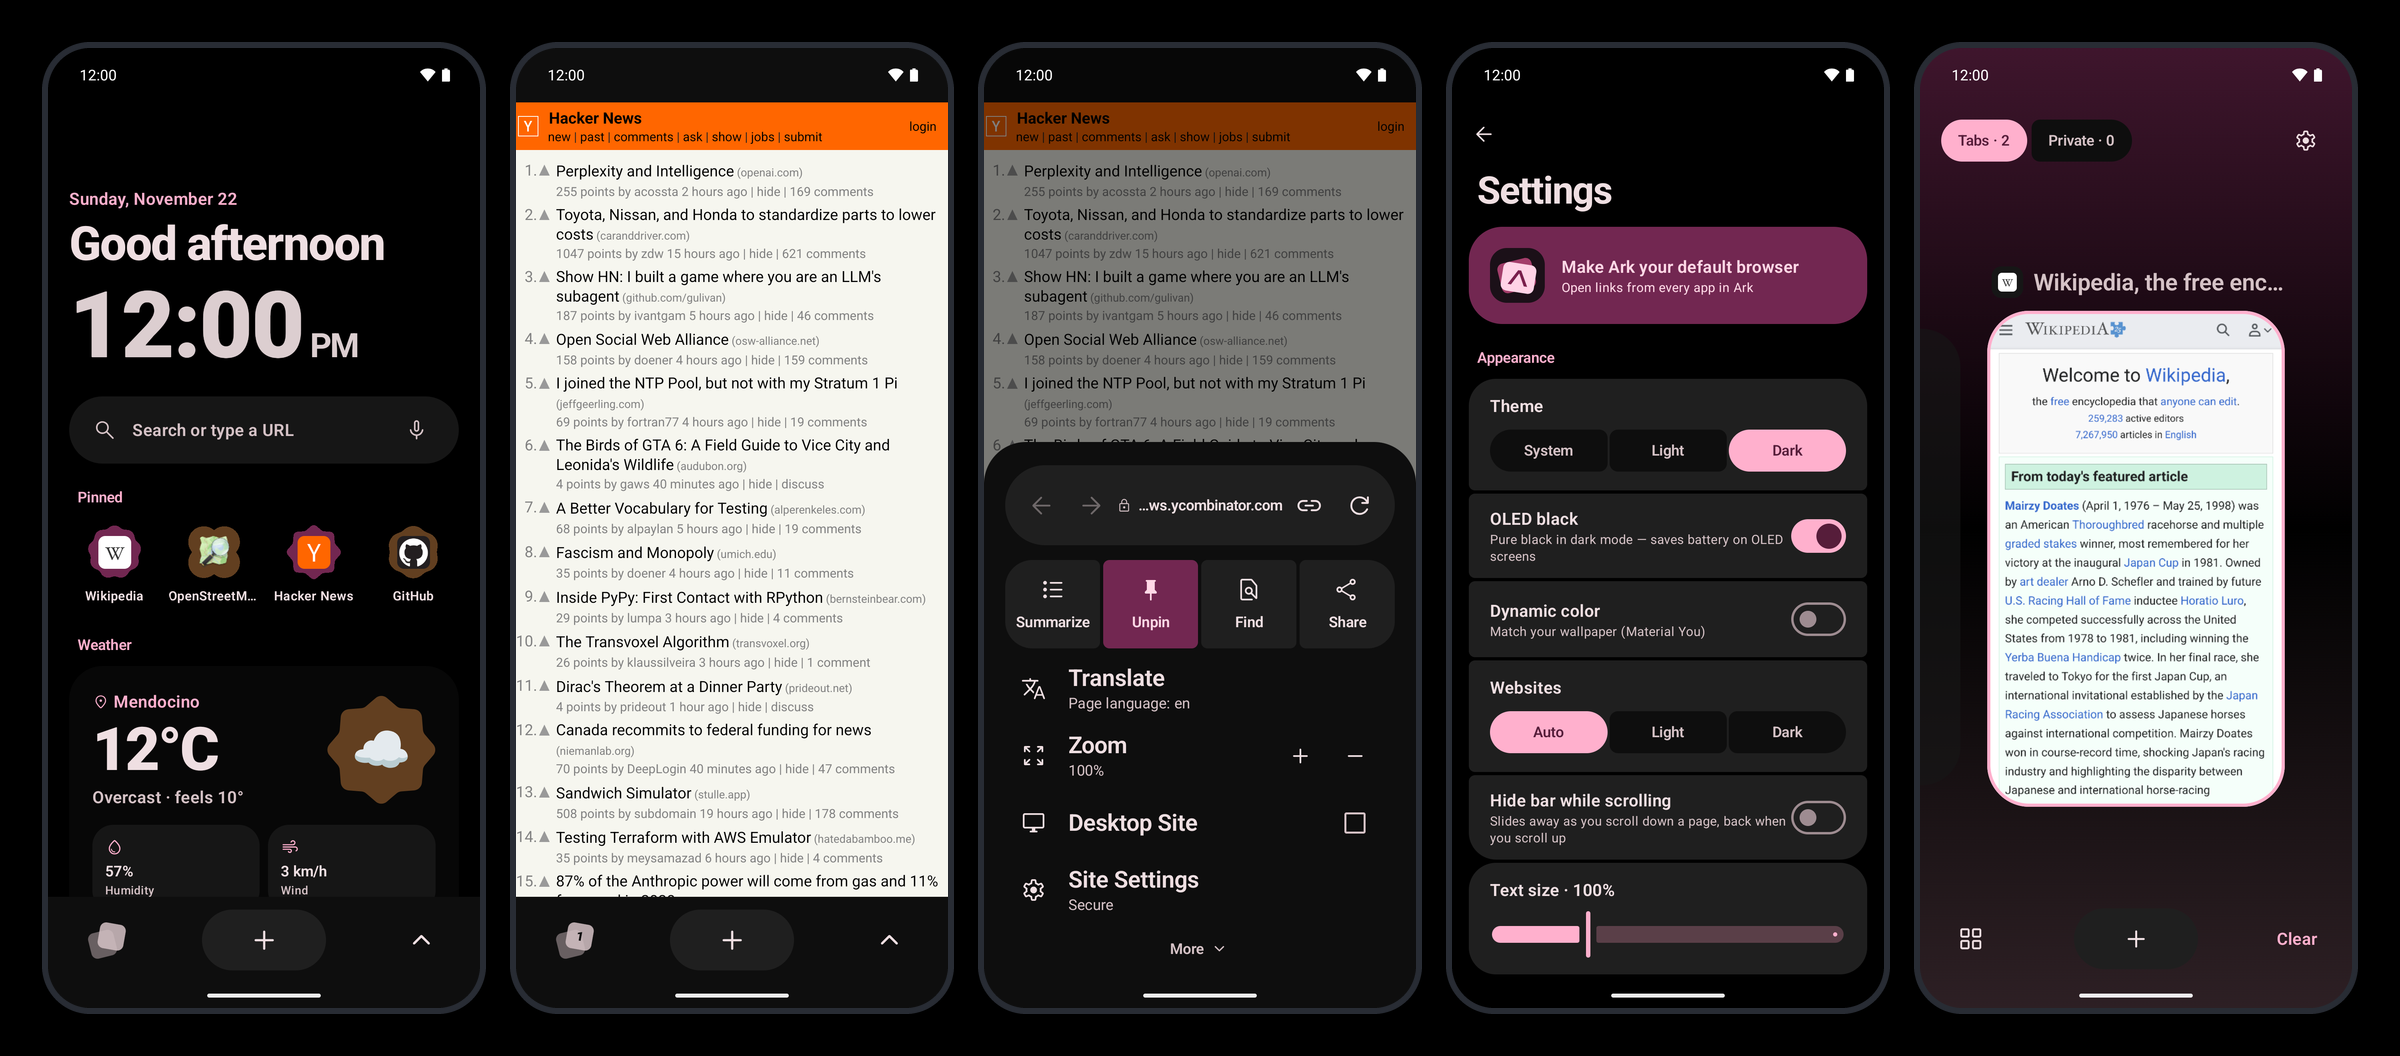
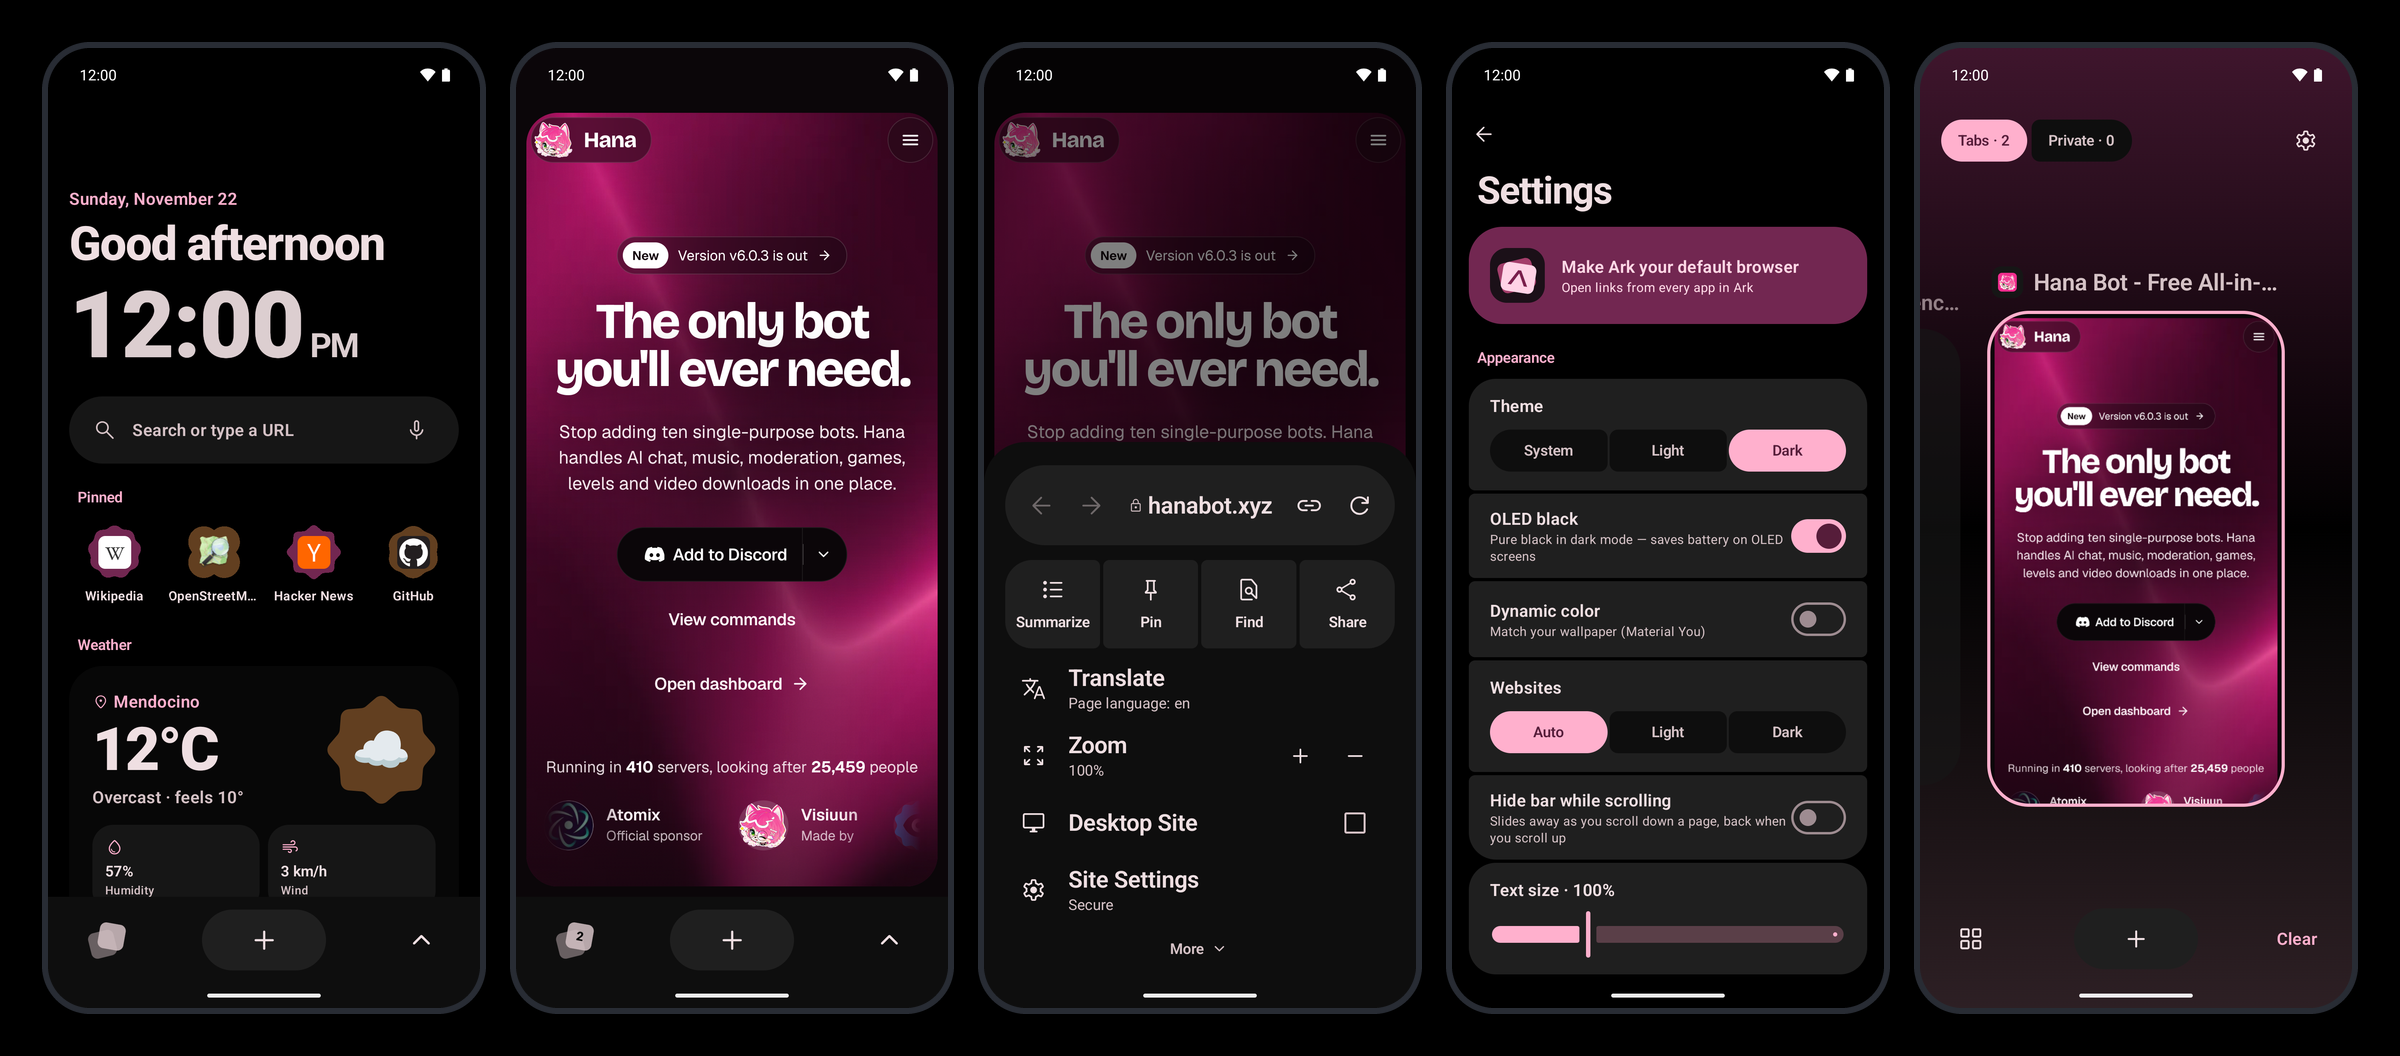
README: screenshots on hanabot.xyz instead of Hacker News

diff --git a/README.md b/README.md
@@ -22,7 +22,7 @@ No ads, no tracking, no account. Everything the web asks for actually works.
 
 <br>
 
-<img src="docs/screenshots/hero.png" alt="Ark: home, a page, the Arc-style menu, settings with OLED black, and the card tab switcher" width="100%" />
+<img src="docs/screenshots/hero.png" alt="Ark: home, hanabot.xyz, the Arc-style menu, settings with OLED black, and the card tab switcher" width="100%" />
 
 ## At a glance
 
